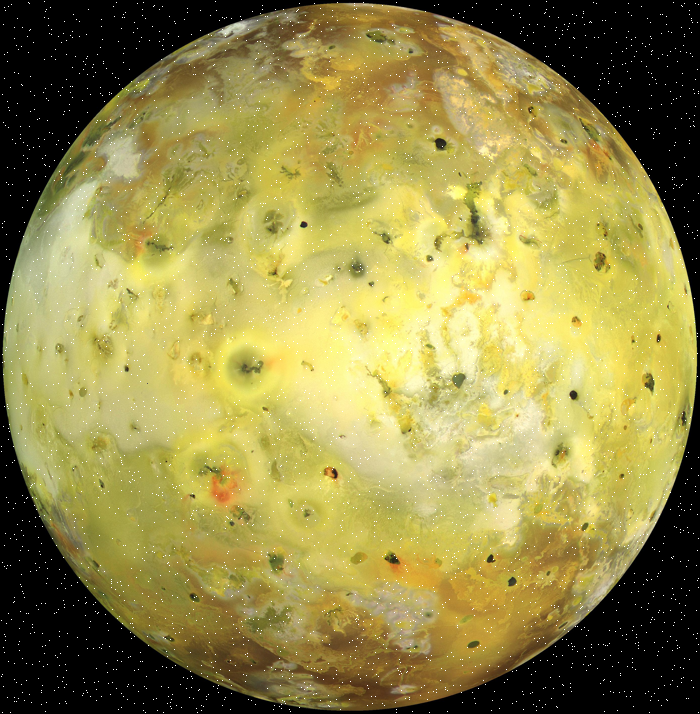
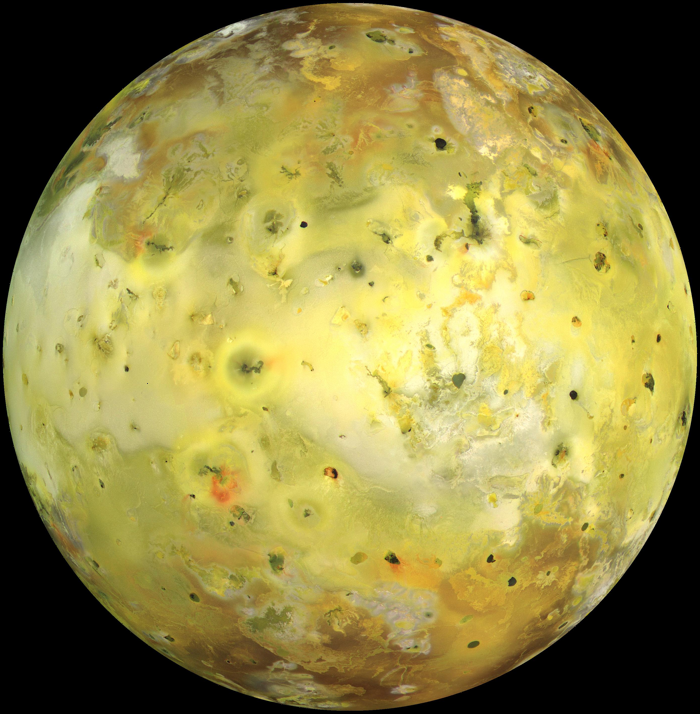
stage 3: neighbor averaging

diff --git a/module-3/pixelfixer.py b/module-3/pixelfixer.py
@@ -11,25 +11,32 @@ import numpy as np
 from matplotlib.pyplot import imread, imsave
 
 
+
+
 def pixelfix(I):
 
     rows, cols, colors = I.shape
 
-    bad_count = 0
+    fixed = I.copy()
 
-    for i in range(rows):
-        for j in range(cols):
+    for i in range(1, rows - 1):
+        for j in range(1, cols - 1):
 
             if (I[i, j, 0] == 1 and
                 I[i, j, 1] == 0 and
                 I[i, j, 2] == 0):
 
-                bad_count += 1
-                I[i, j] = [1, 1, 1]   # paint the bad pixel white
+                up = I[i - 1, j]
+                down = I[i + 1, j]
+                left = I[i, j - 1]
+                right = I[i, j + 1]
 
-    print("Bad pixels found:", bad_count)
+                average = (up + down + left + right) / 4
 
-    return I
+                fixed[i, j] = average
+
+    return fixed
+
 
 
     ### YOUR WORK GOES HERE (with the agent, under the Protocol, in stages:
